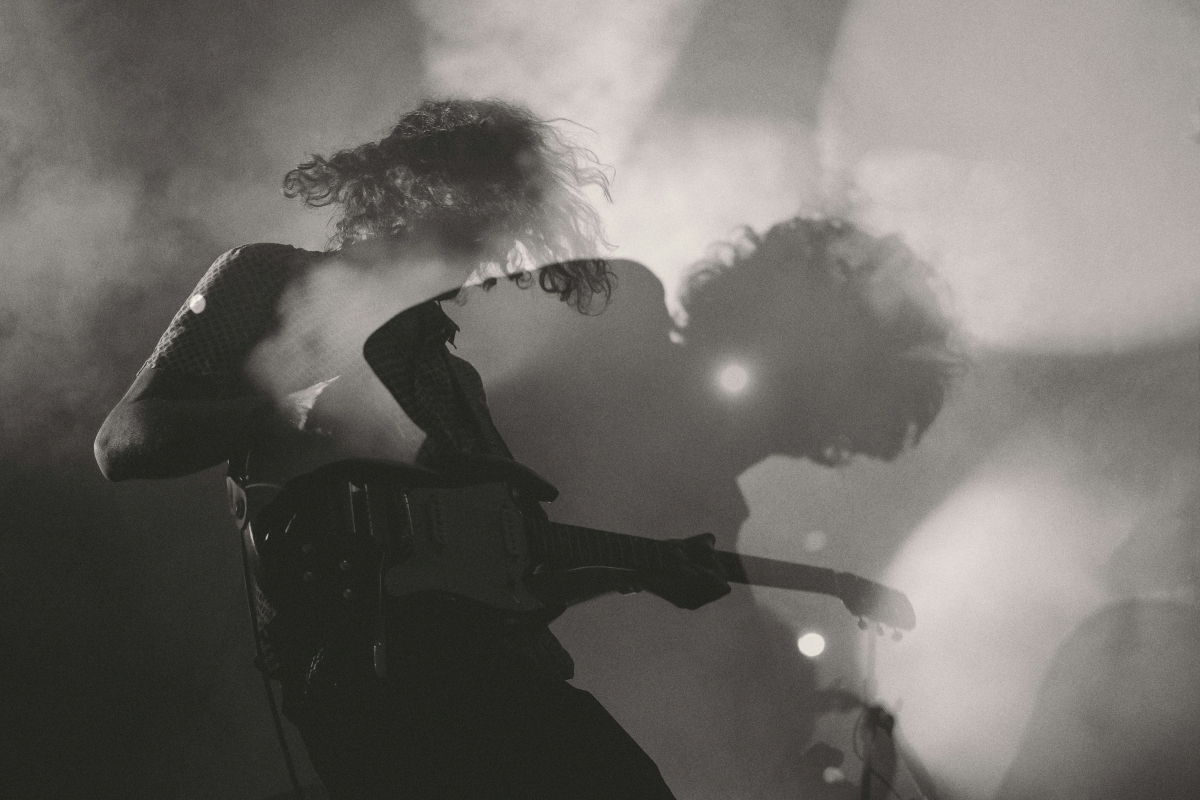
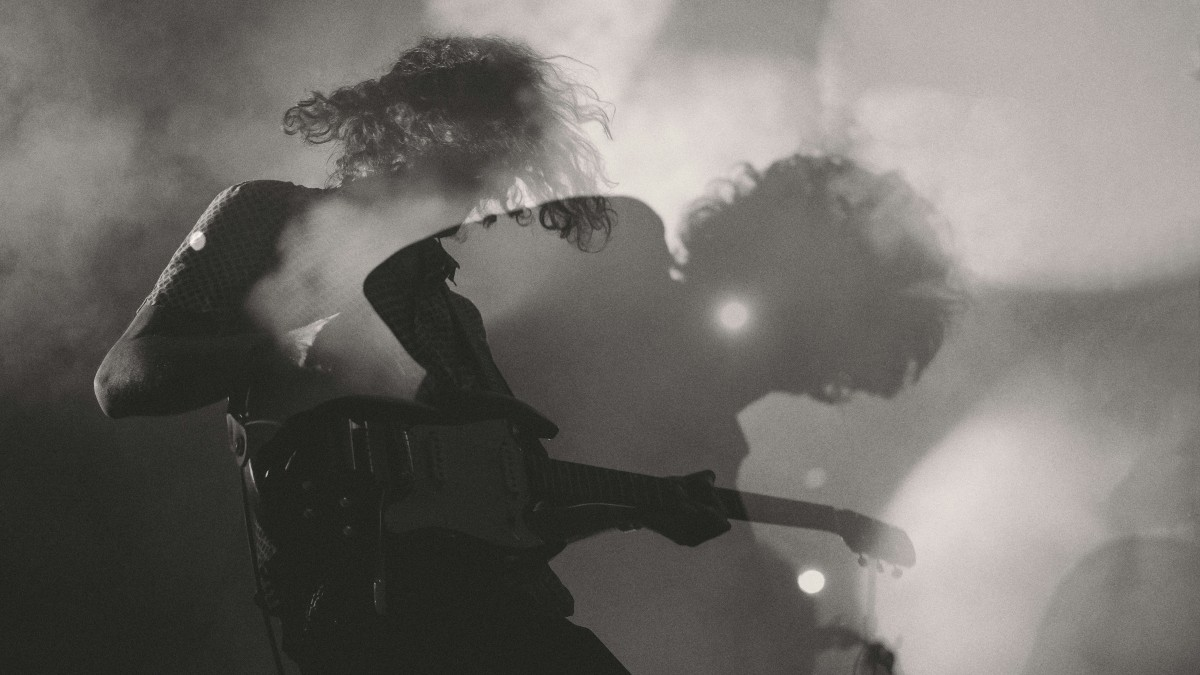
fix: battle img html and styling

diff --git a/play.html b/play.html
@@ -33,21 +33,19 @@
     </nav>
 
   <!-- Battle Page-->
-    <section class="container-fluid battle" id="battle">
-      <div class="row align-items-center justify-content-center">
-        <div class="col-12 text-center">
+  <section class="container-fluid battle mt-4" id="battle">
+    <div class="row align-items-center justify-content-center">
+      <div class="col-12 text-center">
+        <div class="battle-img-container">
           <img src="assets/imgs/battle-img.jpg" class="img-fluid battle-img" alt="battle image">
-        </div>
-        <div class="col-12 text-center">
-          <h1>Ready?... Set?... BATTLE!</h1>
-        </div>
-        <div class="row align-items-center justify-content-center">
-          <div class="col-6">
-            <button class="btn btn-primary mx-auto d-block fs-4" id="go" role="button">GO!</button>
-          </div>  
+          <div class="img-title">Ready?... Set?... BATTLE!</div>
         </div>
       </div>
-    </section>
+      <div class="col-12 mt-3 text-center">
+        <button class="btn btn-primary mx-auto d-block fs-4" id="go" role="button">GO!</button>
+      </div>
+    </div>  
+  </section>
 
   <!--Battle Cards-->
     <div class="container">

diff --git a/assets/css/style.css b/assets/css/style.css
@@ -140,15 +140,33 @@ h3 {
     height: auto;
     overflow: hidden;
 }
+.battle-img-container {
+    position: relative;
+    display: inline-block;
+    width: 100%;
+    max-width: 1400px;
+}
+
 .battle-img {
-    width: 90vw;
+    width: 100vw;
     height: auto;
-    object-fit: cover;
-    margin: auto;
-    opacity: 0.7;
-    overflow: hidden;
-    padding: 5px;
-    background-color:red;
+    display: block;
+    padding: 0.6rem;
+    background-color: red;
+}
+
+.img-title {
+    position: absolute;
+    top: 50%;
+    left: 50%;
+    transform: translate(-50%, -50%);
+    background: rgba(0, 0, 0, 0.5);
+    color: red;
+    padding: 10px 20px;
+    font-size: 1rem;
+    text-align: center;
+    width: 80%;
+    max-width: 300px;
 }
 
 /*Card styling*/
